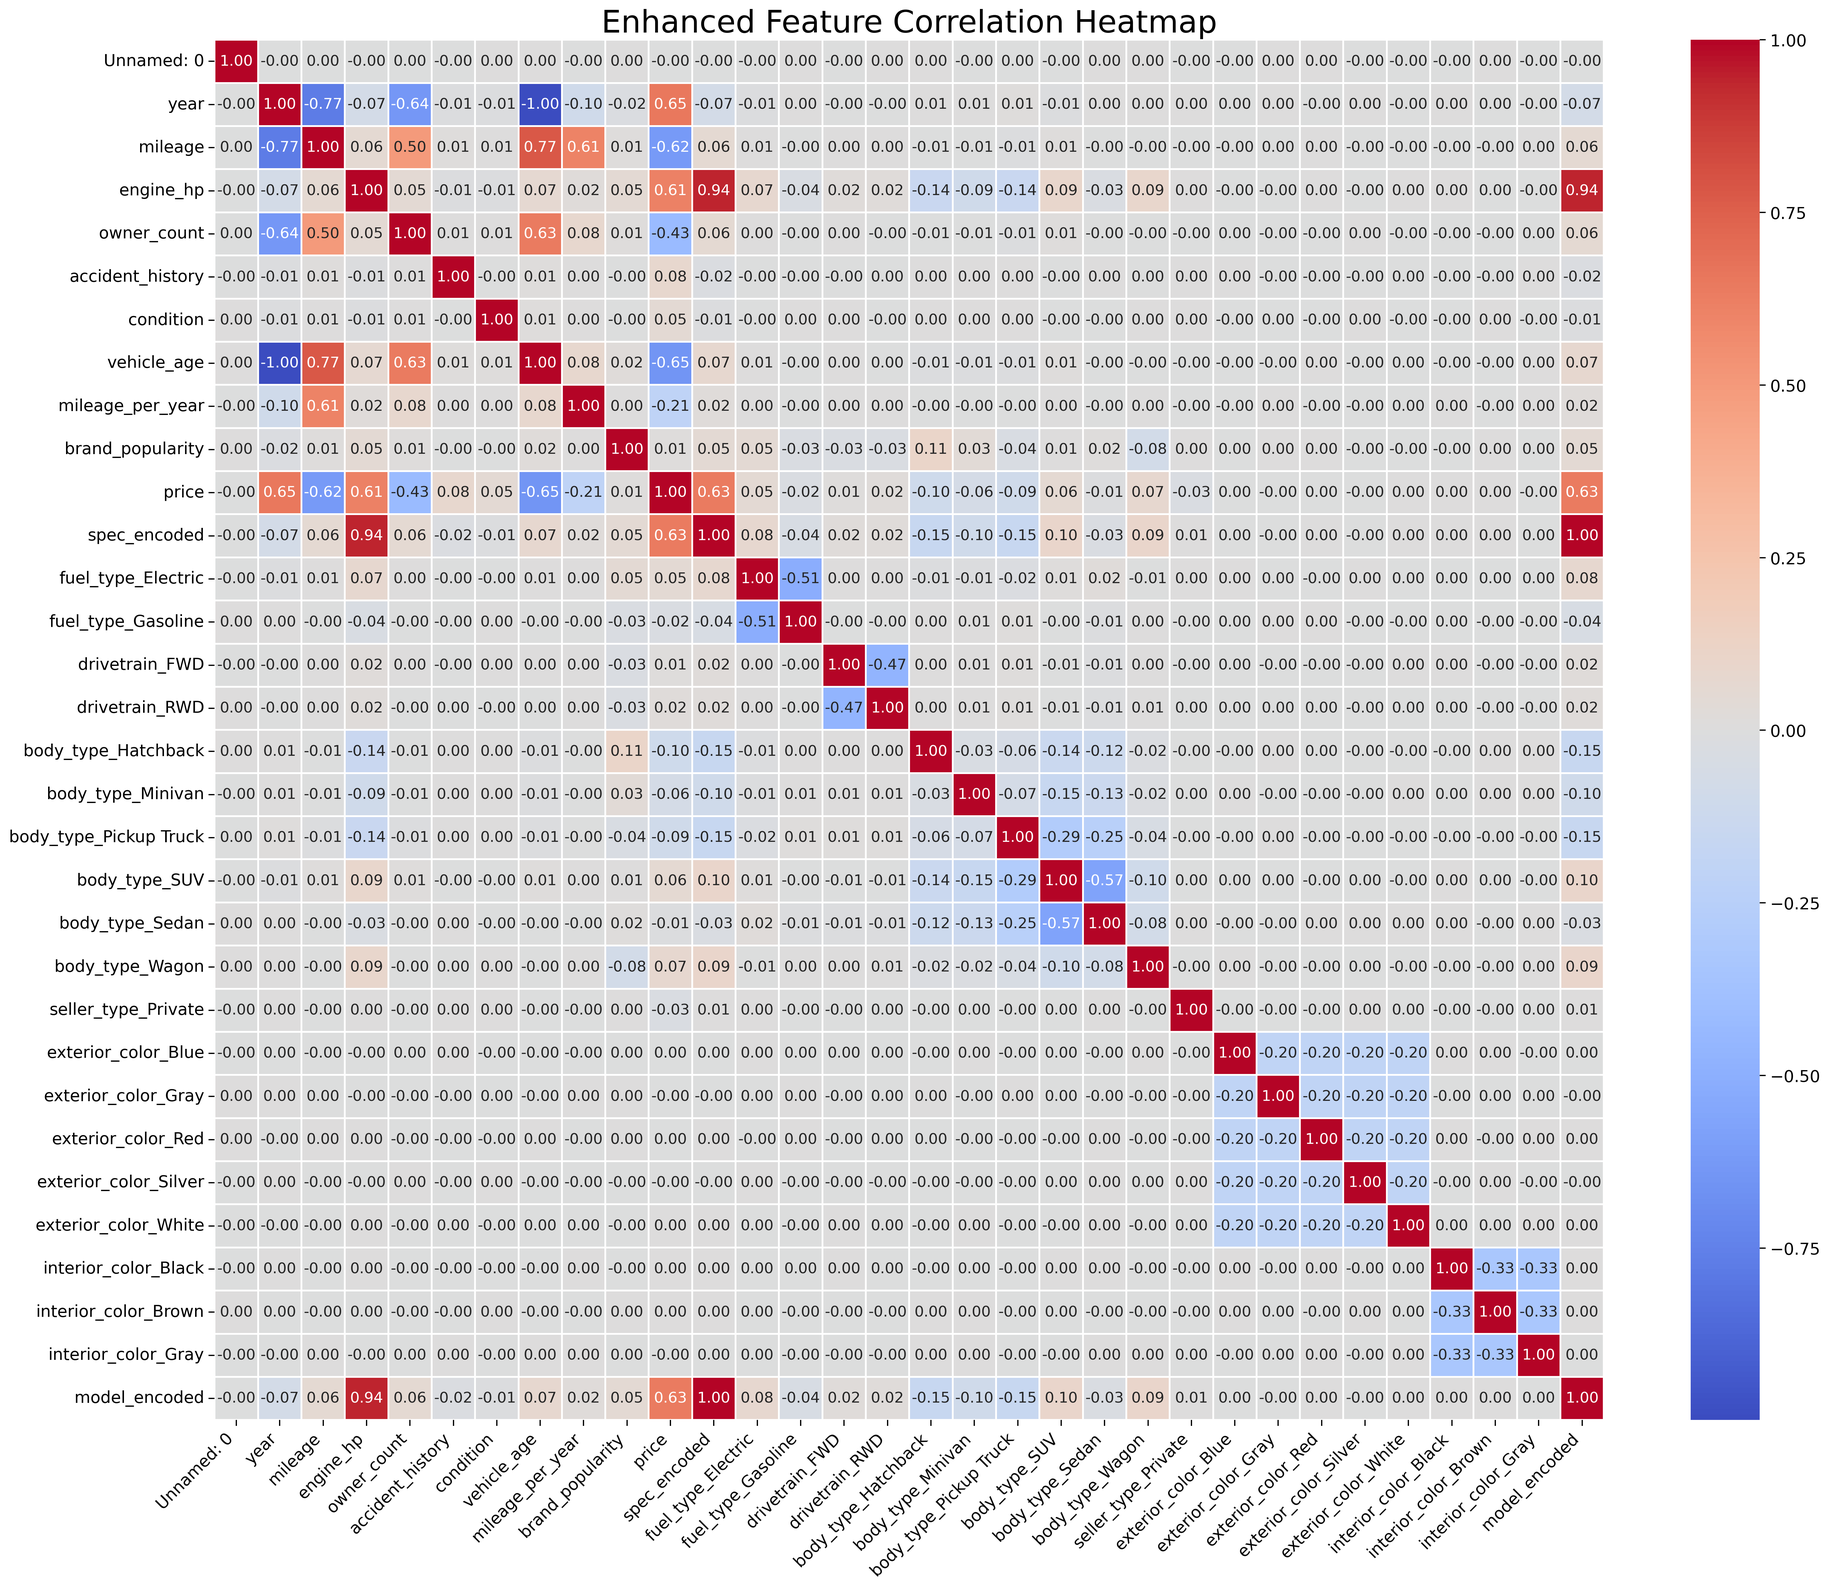
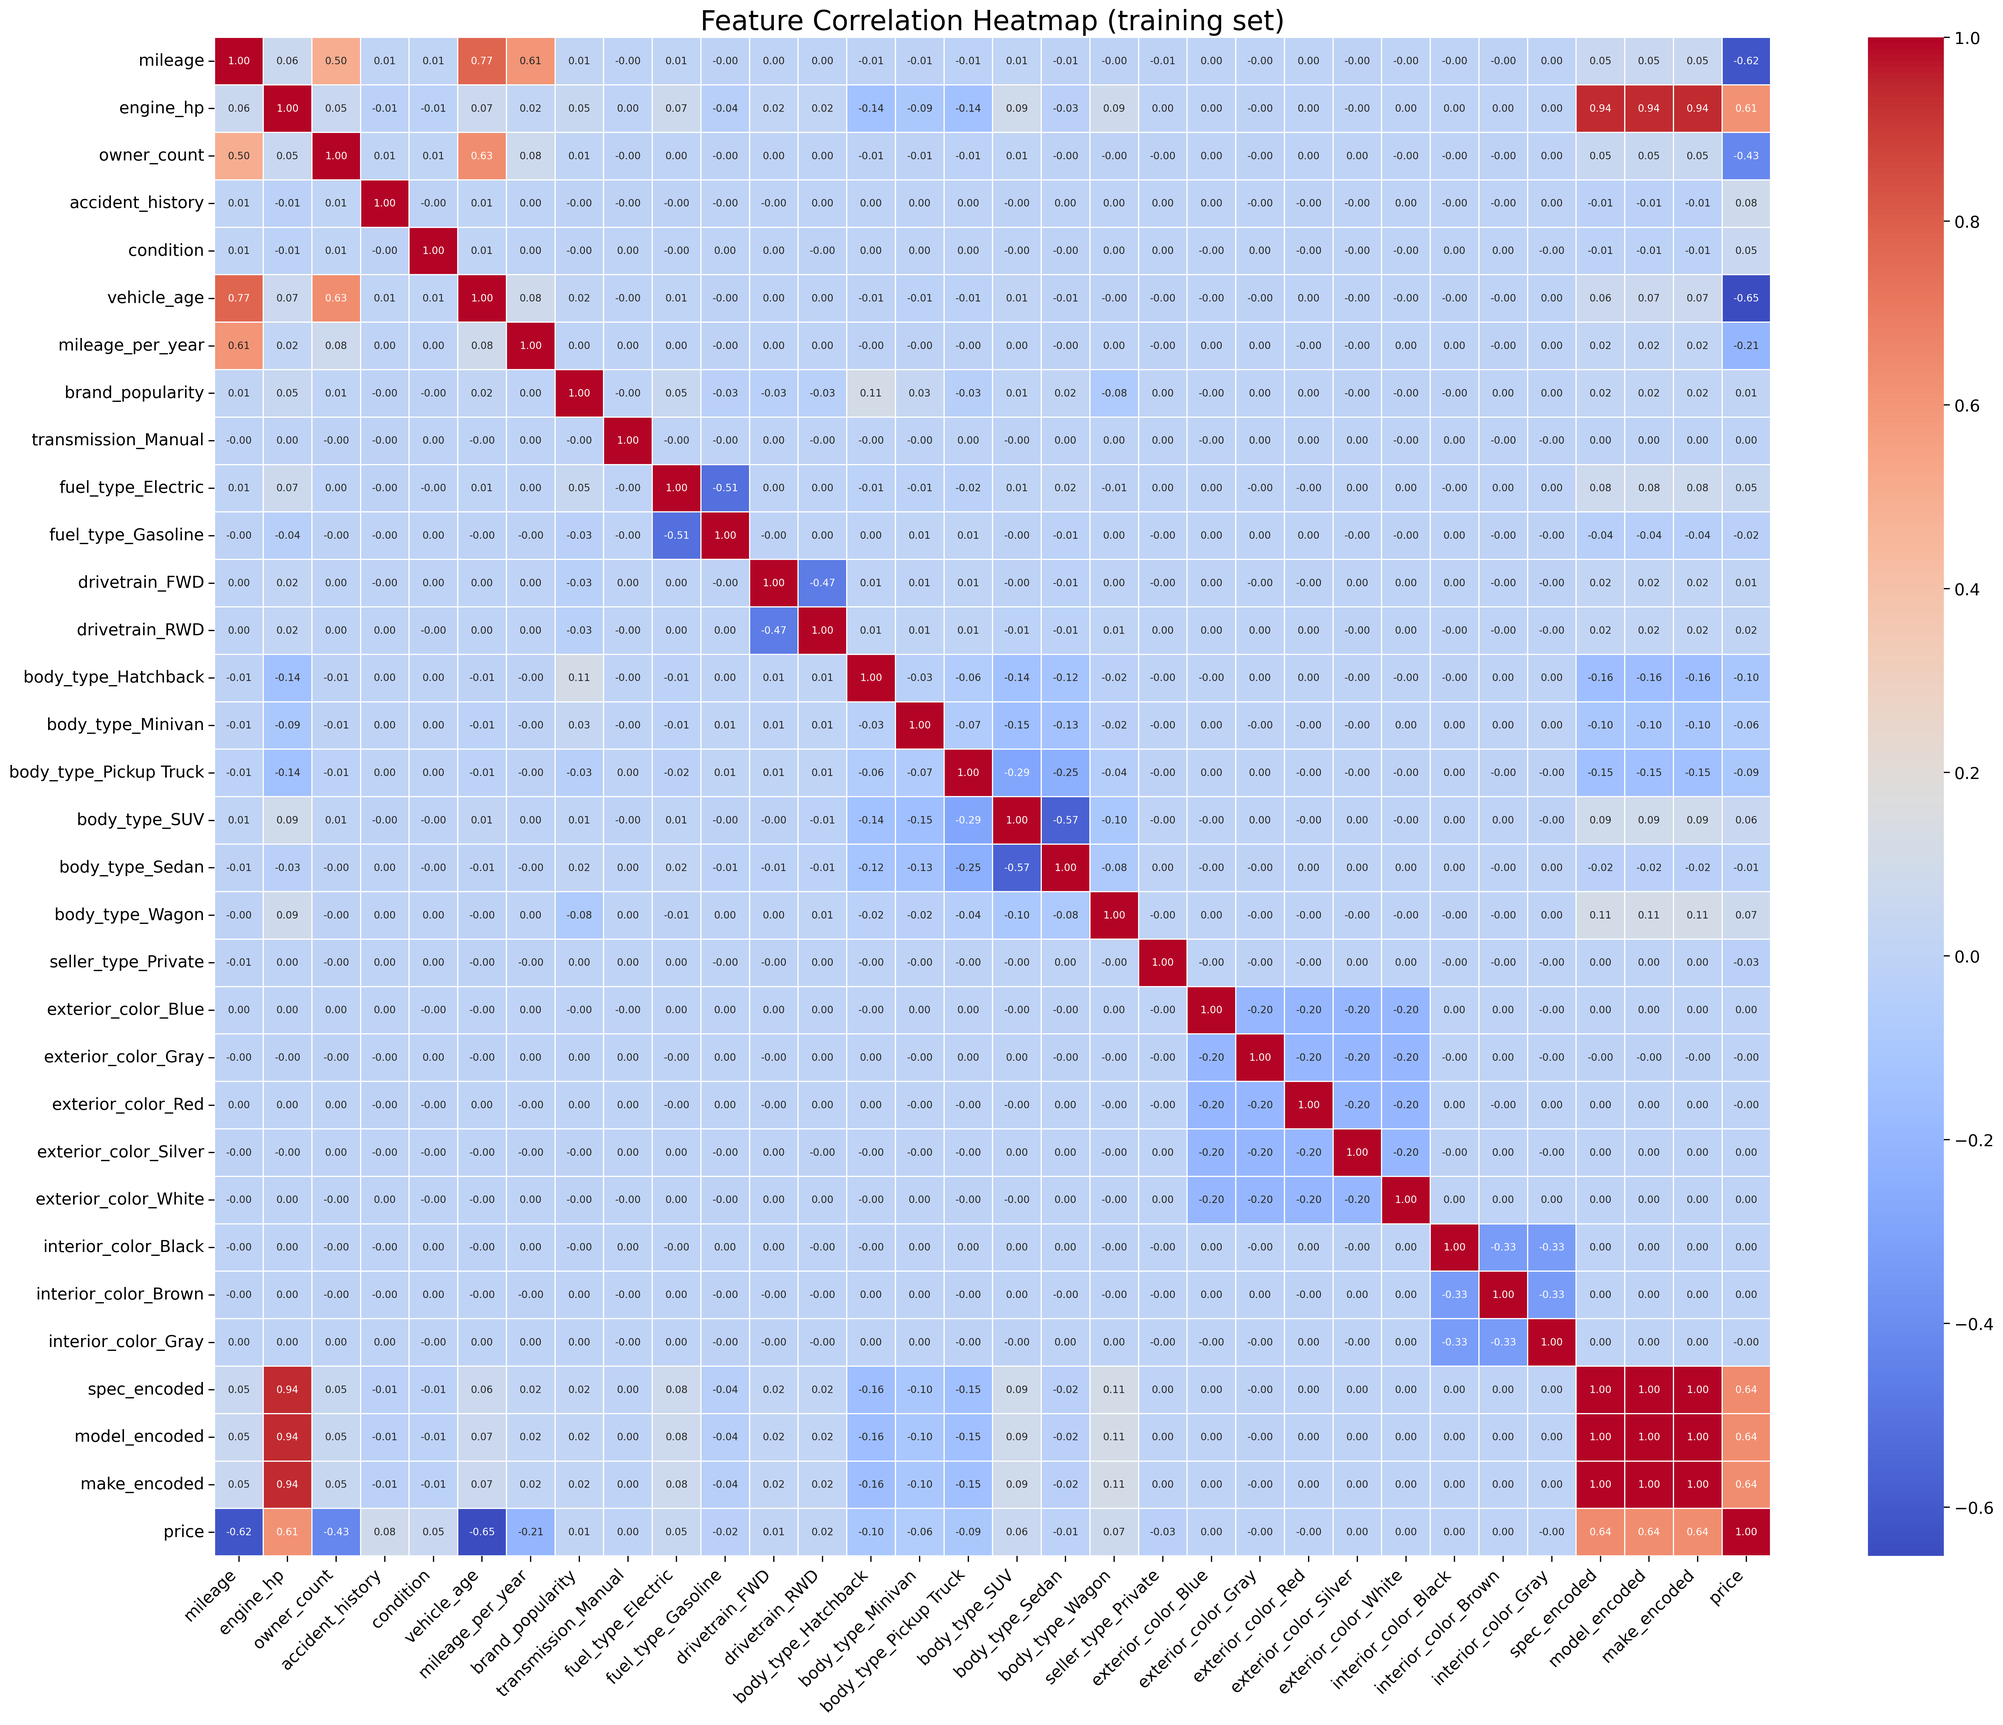
8th commit:  1. Completely changed the code and made it structured.  2. Changed from Polynomial regression to Random Forest.  3. Increased R^2 score to 98.89% and reduced MAE to 838.26$

diff --git a/main.py b/main.py
@@ -1,118 +1,153 @@
-from sklearn.model_selection import train_test_split
 import pandas as pd
-from cleaning import dataCleaning
-from pathlib import Path
-from sklearn.preprocessing import StandardScaler
-import seaborn as sns
+import numpy as np
 import matplotlib.pyplot as plt
+import seaborn as sns
+from pathlib import Path
+
+from sklearn.model_selection import train_test_split
+from sklearn.preprocessing import StandardScaler, PolynomialFeatures
 from sklearn.linear_model import LinearRegression
-from sklearn.preprocessing import PolynomialFeatures
-from sklearn.pipeline import make_pipeline
-from sklearn.metrics import r2_score, mean_absolute_error
+from sklearn.ensemble import RandomForestRegressor
+from sklearn.metrics import r2_score, mean_absolute_error, mean_absolute_percentage_error
 
-scale = StandardScaler()
+from cleaning import dataCleaning
 
-cwd = Path.cwd()
-path = Path(f"{cwd}/cleaned_data.csv")
-
+# ── 1. Load (or generate) cleaned data ────────────────────────────────────────
+path = Path("cleaned_data.csv")
 if path.is_file():
-    print("Cleaned data available and ready to use")
-    
+    print("Cleaned data found – loading.")
 else:
-    print("Cleaned data not found,\ncleaning data....\n")
+    print("Cleaned data not found – running cleaner…")
     dataCleaning()
-    
+
 df = pd.read_csv('cleaned_data.csv')
 
+# ── 2. Remove price outliers (IQR method) ─────────────────────────────────────
 Q1 = df['price'].quantile(0.25)
 Q3 = df['price'].quantile(0.75)
 
+print(f"\nRows before outlier removal: {len(df):,}")
+
 IQR = Q3 - Q1
+df = df[(df['price'] >= Q1 - 1.5 * IQR) & (df['price'] <= Q3 + 1.5 * IQR)].copy()
 
-lower_limit = Q1 - 1.5*IQR
-upper_limit = Q3 + 1.5*IQR
+print(f"\nRows after outlier removal: {len(df):,}")
 
-clean_df = df[(df['price']>=lower_limit) & (df['price']<=upper_limit) ]
-data_to_scale = ['mileage','mileage_per_year','vehicle_age','engine_hp']
-clean_df[data_to_scale] = scale.fit_transform(clean_df[data_to_scale])
+# ── 3. Define feature groups ───────────────────────────────────────────────────
+# String columns that will be mean-encoded in step 5
+string_cols = ['make', 'model', 'trim', 'full_spec']
 
-# print(clean_df.columns)
-clean_df.drop(columns=['model', 'trim'], inplace=True)
-# print(clean_df.head())
+# Columns to exclude entirely from X
+non_feature_cols = {'price', 'year'} | set(string_cols) #this contains a list of attributes which doesn't need to be trained
+feature_cols = []
+
+for c in df.columns:
+    if c not in non_feature_cols:
+        feature_cols.append(c)
+
+# Columns to standardise (continuous numeric, not binary OHE flags)
+cols_to_scale = ['mileage', 'mileage_per_year', 'vehicle_age',
+                 'engine_hp', 'brand_popularity', 'owner_count']
+# Filter to only those that actually exist after OHE
+cols_to_scale = [c for c in cols_to_scale if c in feature_cols]
+
+# ── 4. Train / test split FIRST (before any fit / encoding / scaling) ─────────
+y = df['price']
+X_str = df[string_cols]          # raw string cols, encoded later
+X_num = df[feature_cols]         # numeric + OHE boolean cols
+
+X_train_num, X_test_num,X_train_str, X_test_str, y_train, y_test = train_test_split(X_num, X_str, y, test_size=0.2, random_state=42)
+
+# ── 5. Mean encoding – fitted on training fold only ────────────────────────────
+# Encodes each string col as the average price of that category,
+# computed from training labels only → no leakage into test set.
+def mean_encode(train_X, test_X, train_y, col, new_col):
+    means       = train_y.groupby(train_X[col]).mean()
+    global_mean = train_y.mean()   # fallback for unseen categories
+    train_X[new_col] = train_X[col].map(means).fillna(global_mean)
+    test_X[new_col]  = test_X[col].map(means).fillna(global_mean)
+
+mean_encode(X_train_str, X_test_str, y_train, 'full_spec', 'spec_encoded')
+mean_encode(X_train_str, X_test_str, y_train, 'model',     'model_encoded')
+mean_encode(X_train_str, X_test_str, y_train, 'make',      'make_encoded')
+# 'trim' is already captured inside full_spec, so we skip it here
+
+# Attach mean-encoded columns to the numeric feature frames
+for col in ['spec_encoded', 'model_encoded', 'make_encoded']:
+    X_train_num[col] = X_train_str[col].values
+    X_test_num[col]  = X_test_str[col].values
+
+# ── 6. Feature scaling – fitted on training fold only ────────────────────────
+scaler = StandardScaler()
+X_train_num[cols_to_scale] = scaler.fit_transform(X_train_num[cols_to_scale])
+X_test_num[cols_to_scale]  = scaler.transform(X_test_num[cols_to_scale])
+
+X_train = X_train_num
+X_test  = X_test_num
+
+print(f"\nFinal feature count : {X_train.shape[1]}")
+print(f"Training samples    : {len(X_train):,}")
+print(f"Test samples        : {len(X_test):,}")
+
+# ── 7. Correlation heatmap (training set only) ─────────────────────────────────
+print("\nSaving correlation heatmap…")
+train_plot = X_train.copy()
+train_plot['price'] = y_train.values
 
 sns.set_context("paper", font_scale=1.5)
-
-# # 2. Define a much larger figure size (Width, Height in inches)
-plt.figure(figsize=(25, 20))
-
-# # 3. Increase annotation size using annot_kws
-# # 'fmt' determines decimal places, 'annot_kws' sets font properties
-sns.heatmap(clean_df.corr(numeric_only=True), 
-            annot=True, 
-            cmap='coolwarm', 
-            fmt='.2f', 
-            annot_kws={"size": 12},  # Size of numbers inside the boxes
-            linewidths=1)          # Adds spacing between elements for clarit
-plt.title("Enhanced Feature Correlation Heatmap", fontsize=25)
-plt.xticks(rotation=45, ha='right')  # Tilts x-axis labels for better fit
-
-# # Since you mentioned the FigureCanvasAgg warning earlier:
-plt.savefig('large_heatmap.png', dpi=300, bbox_inches='tight')
-print("Heatmap saved as large_heatmap.png")
-
-feature = [
-    'vehicle_age',
-    'mileage',
-    'engine_hp',
-    'owner_count',
-    'mileage_per_year',
-    'spec_encoded',
-    'model_encoded'
-]
-
-X = clean_df[feature]
-y = clean_df['price']
-
-
-
-X_train, X_test, y_train, y_test = train_test_split(X, y, test_size=0.2, random_state=42)
-
-poly_model = make_pipeline(PolynomialFeatures(degree=2), LinearRegression())
-
-# 2. Train the model
-poly_model.fit(X_train, y_train)
-
-# 3. Predict
-y_poly_pred = poly_model.predict(X_test)
-
-print(f"Polynomial R2 Score: {r2_score(y_test, y_poly_pred):.4f}")
-print(f"Polynomial MAE: ${mean_absolute_error(y_test, y_poly_pred):.2f}")
-
-# Quick check for the new residuals
-poly_residuals = y_test - y_poly_pred
-plt.figure(figsize=(10, 6))
-plt.scatter(y_poly_pred, poly_residuals, alpha=0.1, color='green')
-plt.axhline(y=0, color='r', linestyle='--')
-plt.title('Polynomial Residuals: Much Flatter!')
-plt.savefig('poly_residuals.png')
-
-
-# Calculate the average price per brand for 'New' vs 'Old' cars
-brand_stats = clean_df.groupby('make').agg(
-    avg_price=('price', 'mean'),
-    avg_age=('vehicle_age', 'mean')
+plt.figure(figsize=(28, 22))
+sns.heatmap(
+    train_plot.corr(numeric_only=True),
+    annot=True, cmap='coolwarm', fmt='.2f',
+    annot_kws={"size": 8}, linewidths=0.5
 )
+plt.title("Feature Correlation Heatmap (training set)", fontsize=22)
+plt.xticks(rotation=45, ha='right')
+plt.savefig('large_heatmap.png', dpi=300, bbox_inches='tight')
+plt.close()
+print("Heatmap saved to large_heatmap.png")
 
-# Calculate Depreciation Rate (Price drop per year of age)
-# We can use a simple correlation for each brand group
+# ── 8. Model – Polynomial Regression (degree 2) ────────────────────────────────
+y_train_log = np.log1p(y_train)
+rf_model = RandomForestRegressor(n_estimators = 100,max_depth = 20,min_samples_leaf= 5,n_jobs = -1,random_state = 42)
+rf_model.fit(X_train, y_train_log)
+y_pred_log = rf_model.predict(X_test)
+y_pred     = np.expm1(y_pred_log)
+
+ 
+r2   = r2_score(y_test, y_pred)
+mae  = mean_absolute_error(y_test, y_pred)
+mape = mean_absolute_percentage_error(y_test, y_pred)
+ 
+print(f"\n{'─'*40}")
+print(f"  Random Forest R²   : {r2:.4f}")
+print(f"  Random Forest MAE  : ${mae:,.2f}")
+print(f"  Random Forest MAPE : {mape*100:.2f}%")
+print(f"{'─'*40}")
+print(f"  Interpretation: predictions are off by ~{mape*100:.1f}% on average")
+
+# ── 9. Residuals plot ──────────────────────────────────────────────────────────
+residuals = y_test - y_pred
+plt.figure(figsize=(10, 6))
+plt.scatter(y_pred, residuals, alpha=0.15, color='steelblue')
+plt.axhline(y=0, color='r', linestyle='--')
+plt.xlabel("Predicted Price ($)")
+plt.ylabel("Residual ($)")
+plt.title("Polynomial Regression – Residuals")
+plt.savefig('poly_residuals.png', dpi=150, bbox_inches='tight')
+plt.close()
+print("Residuals plot saved to poly_residuals.png")
+
+# ── 10. Depreciation rate per brand ───────────────────────────────────────────
+# Uses the original un-scaled df so vehicle_age is interpretable
 depreciation_rates = {}
-for brand in clean_df['make'].unique():
-    subset = clean_df[clean_df['make'] == brand]
-    # Correlation between age and price (should be negative)
-    corr = subset['price'].corr(subset['vehicle_age'])
-    depreciation_rates[brand] = corr
+for brand in df['make'].unique():
+    subset = df[df['make'] == brand]
+    if len(subset) > 10:
+        depreciation_rates[brand] = subset['price'].corr(subset['vehicle_age'])
 
-# Sort: More negative = Higher Depreciation
-sorted_depreciation = pd.Series(depreciation_rates).sort_values()
-print("Highest Depreciation (Value drops fastest):", sorted_depreciation.head(3))
-print("Lowest Depreciation (Value holds best):", sorted_depreciation.tail(3))
+sorted_dep = pd.Series(depreciation_rates).sort_values()
+print("\nHighest depreciation (price drops fastest with age):")
+print(sorted_dep.head(5).to_string())
+print("\nLowest depreciation  (value holds best):")
+print(sorted_dep.tail(5).to_string())

diff --git a/cleaning.py b/cleaning.py
@@ -1,59 +1,41 @@
 import pandas as pd
-from sklearn.preprocessing import OneHotEncoder
-from sklearn.compose import ColumnTransformer
 
-OHE = OneHotEncoder()
 
 def dataCleaning():
-    #Loading my data into python
+    # ── Load raw data ──────────────────────────────────────────────────────────
     df = pd.read_csv("vehicle_price_prediction.csv")
+    print("\nPre Cleaning – missing values:\n", df.isnull().sum())
 
-    print("\nPre Cleaning",df.isnull().sum())
-    #there are no missing values except None in accident_history.
-    #In this context None is a valid value implying there has been no accident previously.
-
+    # ── Missing values ─────────────────────────────────────────────────────────
+    # None in accident_history means no prior accident – fill is more useful
     df['accident_history'] = df['accident_history'].fillna("No_Accident")
 
-    #mapping the needed columns to be encoded
-    
+    # ── Ordinal encoding ───────────────────────────────────────────────────────
+    condition_map = {'Excellent': 2, 'Good': 1, 'Fair': 0}
+    accident_map  = {'No_Accident': 2, 'Minor': 1, 'Major': 0}
+
+    df['condition']        = df['condition'].map(condition_map)
+    df['accident_history'] = df['accident_history'].map(accident_map)
+
+    # ── Composite spec column ──────────────────────────────────────────────────
     df['full_spec'] = df['make'] + "_" + df['model'] + "_" + df['trim']
 
-    spec_means = df.groupby('full_spec')['price'].mean()
-    df['spec_encoded'] = df['full_spec'].map(spec_means)
-    
-    condition_map = {
-        'Excellent': 2,
-        'Good': 1,
-        'Fair': 0
-    }
+    # ── One-hot encoding ───────────────────────────────────────────────────────
+    # transmission: typically 2-3 values (Manual / Automatic / CVT) – OHE fine
+    # Colors are already simplified to ~8-12 values – OHE fine
+    ohe_cols = [
+        'transmission',
+        'fuel_type', 'drivetrain', 'body_type',
+        'seller_type', 'exterior_color', 'interior_color'
+    ]
+    df = pd.get_dummies(df, columns=ohe_cols, drop_first=True)
 
-    accident_map = {
-        'No_Accident':2,
-        'Minor':1,
-        'Major':0
-    }
+    # ── 'make', 'model', 'trim', 'full_spec' kept as raw strings ──────────────
 
-    #encoding the columns in dataset
-    
-    # Convert Fuel, Drive-train, and Body Type at once
-    df= pd.get_dummies(df, columns=['fuel_type', 'drivetrain', 'body_type','seller_type','exterior_color','interior_color'],drop_first=True)
-    
-    df['condition'] = df['condition'].map(condition_map)
-    df['accident_history'] = df['accident_history'].map(accident_map)
-    model_means = df.groupby('model')['price'].mean()
-    df['model_encoded'] = df['model'].map(model_means)
-    print(df.columns)
-    df.drop(['fuel_type', 'drivetrain', 'body_type', 'seller_type', 'full_spec'], axis=1, errors='ignore', inplace=True)
-    print(df.columns)
-    
-    # print("\n--- First 5 Rows ---")
-    # print(df_final.head())
-    # print(df_final.tail())
+    # ── Save ───────────────────────────────────────────────────────────────────
+    df.to_csv('cleaned_data.csv', index=False)
+    print("\nCleaning complete. Columns:\n", list(df.columns))
 
-    df.to_csv('cleaned_data.csv')
 
-    #print("\nPost cleaning",df_final.isnull().sum())
-    
-    
 if __name__ == '__main__':
     dataCleaning()
